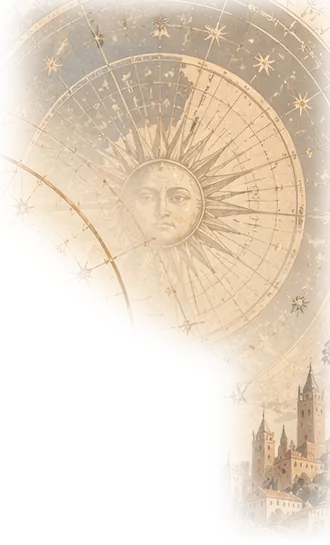
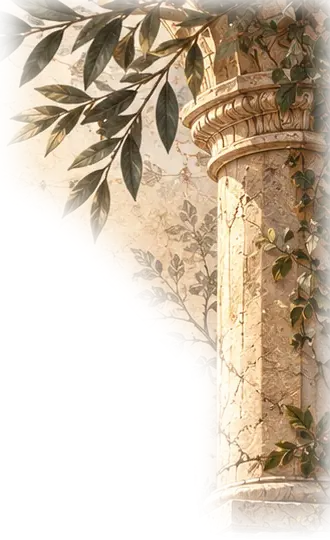
Compact the home cards, lead with Jugar and frame the tagline
- The masthead and cards are smaller, so at least two whole cards fit on
  an iPhone with Safari's bars showing, even with the duel notice on top.
- The Jugar card now comes first, then the daily challenge, then Atlas.
- The tagline sits on a terracotta ribbon so its dark letters stand out
  against the illustration.
- The top-right corner now shows the column with the olive branch,
  mirrored from the left, with soft light rays behind it, so both
  corners match.

Claude-Session: https://claude.ai/code/session_0153HhzxffBnsK7B9Pqf4wPU

diff --git a/edition.css b/edition.css
@@ -3498,3 +3498,47 @@ html body:not(:has(#app[data-screen="home"]))::before { content: none; }
     repeating-linear-gradient(94deg, transparent 0 29px, #fff8e414 29px 30px),
     color-mix(in srgb, var(--edition-paper) 48%, transparent);
 }
+
+/* Portada compacta: caben al menos dos láminas enteras en un móvil con la barra del
+   navegador visible. */
+#app[data-screen="home"] .home-doors-shell .home-masthead { margin: calc(env(safe-area-inset-top) + clamp(4px, 1.6svh, 18px)) auto clamp(10px, 1.8svh, 18px); }
+#app[data-screen="home"] .home-doors-shell .home-crest { width: clamp(70px, 17vw, 110px); margin-bottom: -2px; }
+#app[data-screen="home"] .home-doors-shell .home-wordmark { font-size: clamp(2rem, 9.4vw, 3.2rem); }
+#app[data-screen="home"] .home-doors-shell .home-doors { gap: 10px; }
+#app[data-screen="home"] .home-doors-shell .home-door,
+#app[data-screen="home"] .home-doors-shell .home-door-daily,
+#app[data-screen="home"] .home-doors-shell .home-door-copy,
+#app[data-screen="home"] .home-doors-shell .home-door-daily .home-door-copy { min-height: 112px; }
+#app[data-screen="home"] .home-doors-shell .home-door-copy { padding: 12px 18px; gap: 3px; }
+#app[data-screen="home"] .home-doors-shell .home-door-copy b { font-size: clamp(1.35rem, 5.6vw, 1.7rem); }
+#app[data-screen="home"] .home-doors-shell .home-door-copy small { font-size: .92rem; line-height: 1.3; }
+#app[data-screen="home"] .home-doors-shell .home-door-cta { margin-top: 4px; padding-bottom: 2px; font-size: .98rem; }
+#app[data-screen="home"] .home-doors-shell .home-door-daily.is-done,
+#app[data-screen="home"] .home-doors-shell .home-door-daily.is-done .home-door-copy { min-height: 124px; }
+#app[data-screen="home"] .home-duels:not(:empty) { margin-bottom: 10px; }
+#app[data-screen="home"] .home-duels-banner { min-height: 58px; padding: 8px 16px; }
+#app[data-screen="home"] .home-duels-mark { width: 38px; height: 38px; font-size: 1.05rem; }
+#app[data-screen="home"] .home-duels-banner b { font-size: 1.02rem; }
+#app[data-screen="home"] .home-duels-banner small { font-size: .88rem; }
+
+/* El lema va sobre una cinta terracota para que las letras oscuras se lean sobre la
+   ilustración. */
+#app[data-screen="home"] .home-doors-shell .home-tagline {
+  display: inline-block;
+  margin-top: 8px;
+  padding: 4px 10px 4px calc(10px + .3em);
+  border-radius: 3px;
+  color: #1c120b;
+  font-weight: 700;
+  background: linear-gradient(90deg, #c9784ecc, #d0835a 14% 86%, #c9784ecc);
+  box-shadow: inset 0 1px 0 #f1b08a80, inset 0 -1px 0 #8f462580, 0 2px 6px #6b33182e;
+}
+:root[data-theme="dark"] #app[data-screen="home"] .home-doors-shell .home-tagline { color: #1c120b; }
+
+/* Rayos de luz también desde la esquina derecha, como los que entran por la izquierda. */
+html body:has(#app[data-screen="home"])::before {
+  background:
+    url("assets/home-deco-left.webp") left top / min(165px, 39vw) auto no-repeat,
+    url("assets/home-deco-right.webp") right top / min(165px, 39vw) auto no-repeat,
+    repeating-conic-gradient(from 200deg at 100% 0%, #fff8e400 0deg 5deg, #fff8e466 7deg, #fff8e400 10deg 15deg) right top / min(420px, 90vw) min(520px, 60vh) no-repeat;
+}

diff --git a/app.js b/app.js
@@ -521,7 +521,7 @@
     home();
   }
 
-  // La portada tiene tres puertas y nada más: el reto del día, jugar y el atlas. Encima,
+  // La portada tiene tres puertas y nada más: jugar, el reto del día y el atlas. Encima,
   // solo cuando hay algo pendiente, el aviso de los duelos en los que te toca.
   function home() {
     CT.Quick.leave();
@@ -531,8 +531,8 @@
       ${homeMasthead()}${quickActions()}
       <div id="home-duels" class="home-duels"></div>
       <section class="home-doors" aria-label="Qué quieres hacer">
-        ${dailyDoor()}
         ${homeDoor("jugar", "Jugar", "Colecciones, retos rápidos y competición.", "home-door-jugar", 344, 378)}
+        ${dailyDoor()}
         ${homeDoor("perfil", "Atlas", "Tus cartas, tu progreso y tus logros.", "hero-geography", 859)}
       </section>
       ${homeNav()}

diff --git a/service-worker-258.js b/service-worker-258.js
@@ -1,6 +1,6 @@
 // Al cambiar cualquier archivo hay que subir este número: es lo que hace que el
 // navegador reinstale el service worker y descarte la caché anterior.
-const CACHE = "continuum-v359";
+const CACHE = "continuum-v360";
 // Las láminas de animales —5,5 MB en casi cien archivos— no se precargan: quien nunca
 // abre ese bloque no debería pagar esa descarga solo por instalar la aplicación. La ruta
 // `fetch` de más abajo ya guarda en caché cualquier respuesta válida la primera vez que

diff --git a/updates.js b/updates.js
@@ -1,7 +1,7 @@
 (function () {
   "use strict";
   const CT = window.CONTINUUM;
-  CT.APP_VERSION = "continuum-v359";
+  CT.APP_VERSION = "continuum-v360";
   CT.Updates = { start };
   function start() {
     if (!("serviceWorker" in navigator) || window.Capacitor?.isNativePlatform?.()) return;

diff --git a/PROCEDENCIA_ARTE_IA.md b/PROCEDENCIA_ARTE_IA.md
@@ -26,7 +26,7 @@ El sistema visual común se ha construido mediante instrucciones de continuidad 
 - Logo e icono: se conserva evidencia conversacional de generación mediante el prompt «crea un icono y logo para el juego de timeline/continuum».
 - Portada de apertura: `assets/continuum-splash-v2.webp` se generó con ChatGPT/OpenAI el 18 de septiembre de 2026 a partir de un mockup aportado por el titular. El mockup se utilizó como referencia de composición, luz, paleta y materiales; el recurso final se pidió sin texto, logotipo ni controles para superponer en HTML la marca y los botones accesibles del juego.
 - Fondo animable de portada: `assets/continuum-splash-clean-v3.webp` se derivó con ChatGPT/OpenAI el 19 de septiembre de 2026 de la portada anterior, eliminando únicamente las cartas periféricas para reconstruir el pergamino, las nubes y las líneas que quedaban detrás. Las cartas visibles se componen ahora como capas HTML con ilustraciones propias del juego para poder darles un movimiento independiente; el rayo y los destellos son CSS.
-- Portada ilustrada: `assets/home-deco-left.webp`, `assets/home-deco-right.webp` y `assets/home-door-jugar.webp` se recortaron el 25 de septiembre de 2026 del mockup de la portada aportado por el titular (generado con ChatGPT/OpenAI). Se tomaron solo zonas sin texto ni controles —la columna con el olivo, el astrolabio con la ciudad y la ilustración de cartas y esfera armilar de la lámina «Jugar»— y a las dos piezas de fondo se les añadió transparencia para que la marca, las láminas y los botones sigan siendo HTML.
+- Portada ilustrada: `assets/home-deco-left.webp`, `assets/home-deco-right.webp` y `assets/home-door-jugar.webp` se recortaron el 25 de septiembre de 2026 del mockup de la portada aportado por el titular (generado con ChatGPT/OpenAI). Se tomaron solo zonas sin texto ni controles —la columna con el olivo y la ilustración de cartas y esfera armilar de la lámina «Jugar»— y a las dos piezas de fondo se les añadió transparencia para que la marca, las láminas y los botones sigan siendo HTML. `assets/home-deco-right.webp` es la misma columna con el olivo reflejada en horizontal, para que las dos esquinas de la portada sean simétricas.
 - Recursos recuperados: la ilustración de Austria fue generada el 8 de septiembre de 2026 con la herramienta de imágenes de OpenAI. El recurso de agujero negro se recuperó reutilizando otra ilustración existente del proyecto.
 
 ## Límites de la documentación
